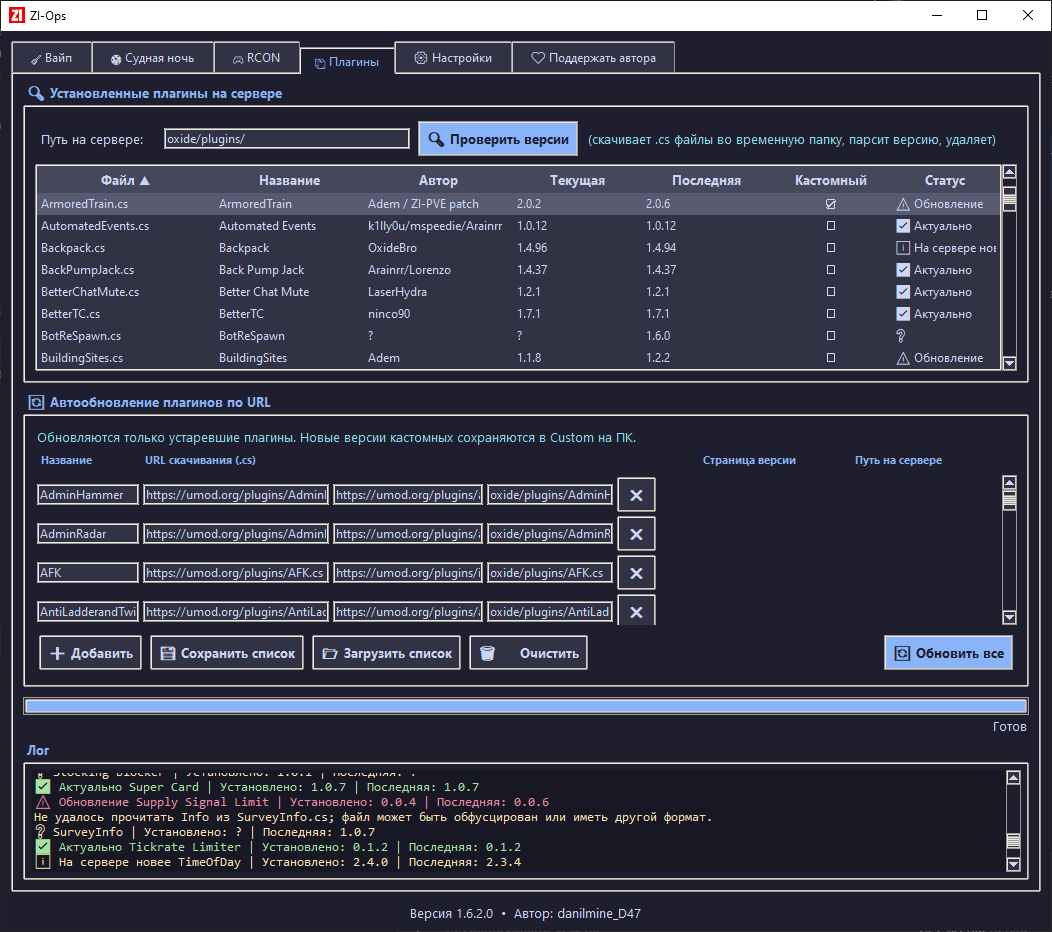
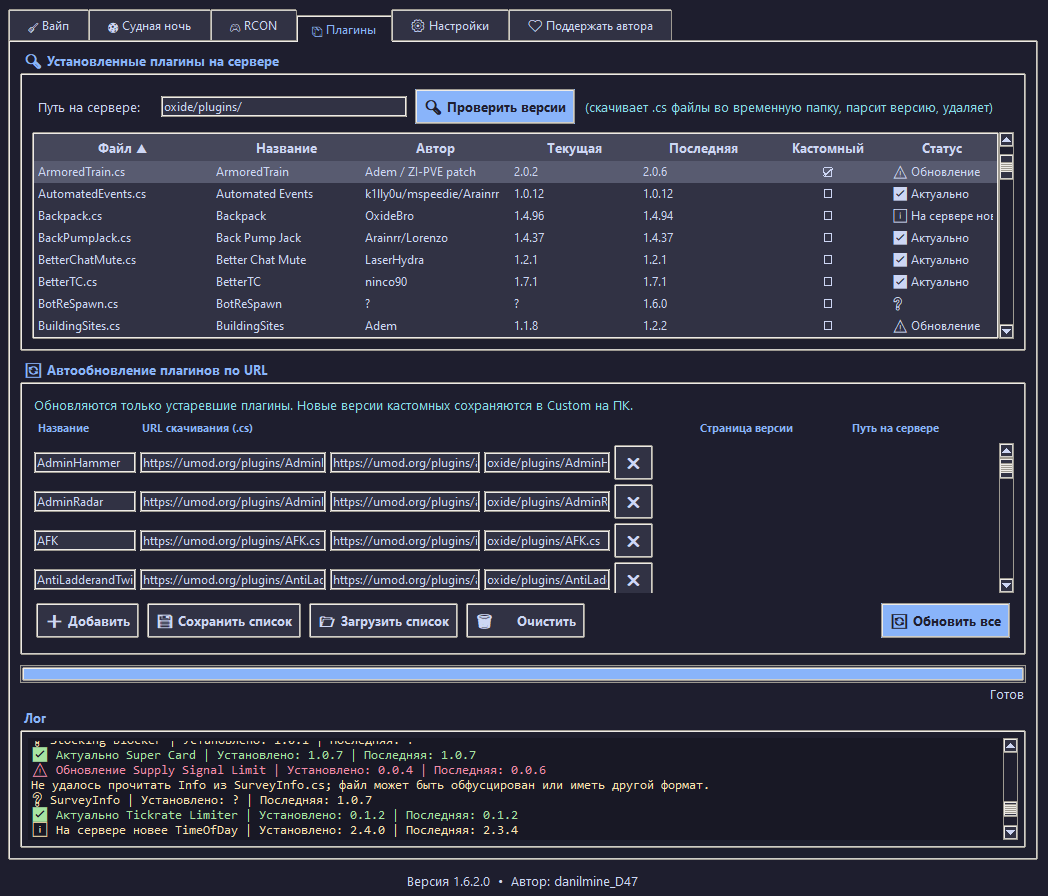
Sites

diff --git a/index.html b/index.html
@@ -6,7 +6,7 @@
   <meta name="theme-color" content="#1e1e2e">
   <meta name="description" content="ZI-Ops — управление сервером Rust: вайп, судная ночь, RCON, Query и обновление плагинов. Скачать EXE для Windows.">
   <title>ZI-Ops — управление сервером Rust</title>
-  <link rel="stylesheet" href="style.css?v=20261004-3">
+  <link rel="stylesheet" href="style.css?v=20261004-4">
 </head>
 <body>
   <a class="skip" href="#main">Перейти к содержимому</a>
@@ -14,7 +14,7 @@
     <div class="container navigation">
       <a class="brand" href="#home" aria-label="ZI-Ops — главная"><span class="logo">ZI</span><span>ZI-Ops<small>ZombiIsland Operations</small></span></a>
       <nav aria-label="Главное меню">
-        <a href="#home">Главная</a><a href="#about">О программе</a><a href="#versions">Версии</a>
+        <a href="#home">Главная</a><a href="#about">О программе</a><a href="#versions">Версии</a><a href="#plans">Планы</a>
         <a class="nav-download" href="https://github.com/Dan-gl1tch/ZI-Ops/releases/download/ver-1_6_2_0/ZI-Ops.exe" data-download>Скачать EXE <span aria-hidden="true">↓</span></a>
       </nav>
     </div>
@@ -43,6 +43,16 @@
         <article class="feature"><span class="feature-number">04 / СУДНАЯ НОЧЬ</span><h3>Ваш сценарий переключения</h3><p>Выберите файлы для начала и конца ночи. Программа меняет только указанные пути и сохраняет резервные копии затрагиваемых серверных файлов.</p></article>
       </div>
       <div class="guide"><div><h3>Первый запуск — с настройки подключений</h3><p>Адреса и порты FTP, RCON и Query берутся из панели хостинга. Для генерации карт нужен ваш RustMaps API Key.</p></div><a class="text-link" href="https://github.com/Dan-gl1tch/ZI-Ops/blob/main/DOCUMENTATION.md" target="_blank" rel="noopener noreferrer">Открыть документацию ↗</a></div>
+    </section>
+    <section class="section container" id="plans">
+      <div class="section-heading"><div><p class="eyebrow">ПЛАНЫ РАЗВИТИЯ</p><h2>Что дальше.</h2></div><p>Дальнейшая работа — над совместимостью, удобством и надёжностью программы.</p></div>
+      <div class="features">
+        <article class="feature"><span class="feature-number">01 / LINUX</span><h3>Поддержка Linux</h3><p>Подготовить версию ZI-Ops для Linux, чтобы пользоваться программой можно было и на этой системе. Сейчас готовая сборка доступна для Windows.</p></article>
+        <article class="feature"><span class="feature-number">02 / ИСПРАВЛЕНИЯ</span><h3>Меньше ошибок</h3><p>Исправлять найденные баги и учитывать сообщения пользователей о проблемах в работе программы.</p></article>
+        <article class="feature"><span class="feature-number">03 / ИНТЕРФЕЙС</span><h3>Более отзывчивая программа</h3><p>Улучшать отзывчивость интерфейса во время длительных операций и сетевых запросов.</p></article>
+        <article class="feature"><span class="feature-number">04 / СТАБИЛЬНОСТЬ</span><h3>Надёжнее в повседневной работе</h3><p>Дорабатывать подключения и файловые операции, уменьшать задержки и улучшать обработку ошибок.</p></article>
+      </div>
+      <p class="plans-note">Это планы дальнейшей разработки. Сроки выпуска пока не определены.</p>
     </section>
     <section class="versions-section" id="versions"><div class="container section">
       <div class="section-heading"><div><p class="eyebrow">ВЕРСИИ</p><h2>Версии и обновления.</h2></div><p>Выберите выпуск, посмотрите изменения и скачайте готовую программу для Windows.</p></div>

diff --git a/style.css b/style.css
@@ -12,3 +12,5 @@
 /* Компактное статичное изображение; minmax не даёт картинке расширять сетку. */
 .hero{grid-template-columns:minmax(0,1.02fr) minmax(0,1fr)}.hero-copy{min-width:0}.app-screenshot{width:100%;max-width:500px;justify-self:end}.app-screenshot img{width:100%;max-width:100%;height:auto;border:1px solid #53556f;border-radius:7px;box-shadow:0 18px 40px #10101b44}.app-screenshot figcaption{font-size:10px;margin-top:9px}
 @media(max-width:760px){.hero{grid-template-columns:minmax(0,1fr)}.app-screenshot{max-width:440px!important;justify-self:center!important}}
+
+.plans-note{color:var(--muted);font-size:12px;margin:20px 0 0}@media(max-width:760px){.navigation nav{flex-wrap:wrap;justify-content:flex-start;gap:12px 18px}.navigation nav .nav-download{margin-left:auto}}
